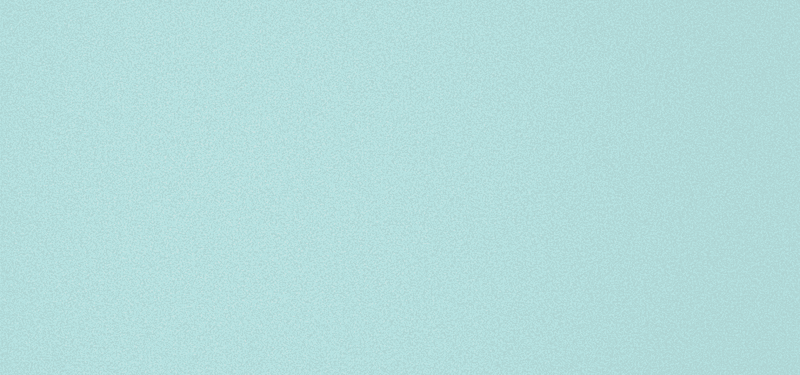
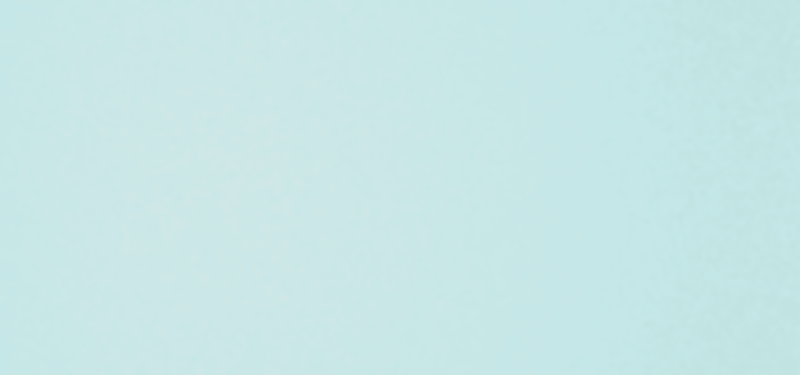
refactor(index): update style following the UWP guidelines

Changed region(s): [[0.0, 0.0, 0.625, 1.0], [0.5625, 0.9973, 0.5938, 1.0]]

diff --git a/_includes/header.html b/_includes/header.html
@@ -35,9 +35,11 @@
                         <li class="dropdown">
                             <a href="#" class="dropdown-toggle" data-toggle="dropdown" role="button" aria-expanded="false">Development<i class="glyph glyph-chevron-down-2"></i></a>
                             <ul class="dropdown-menu" id="dropdown-menu2" role="menu">
+                                <div class="acrylic2"></div>
                                 <li><a href="{{ 'development/devdocs/' | absolute_url }}">Code documentation</a></li>
                                 <li><a href="{{ 'build/tests/coverage/' | absolute_url }}">Code coverage</a></li>
                                 <li><a href="{{ '/development/specifications' | absolute_url }}">M2M Specifications</a></li>
+
                             </ul>
                         </li>
 
@@ -72,7 +74,8 @@
 <!-- Modal -->
 <div class="modal fade" id="myModal" tabindex="-1" role="dialog" aria-labelledby="myModalTitle" aria-hidden="true">
     <div class="modal-dialog" role="document">
-        <div class="modal-content">
+        <div class="modal-content" id="modal-content">
+            <div class="acrylic"></div>
             <div class="modal-header">
                 <button type="button" class="close" data-dismiss="modal" aria-label="Close">
                 <span aria-hidden="true">&times;</span>
@@ -88,6 +91,7 @@
                     Close
                 </button>
             </div>
+
         </div>
     </div>
 </div>

diff --git a/_sass/_index.scss b/_sass/_index.scss
@@ -4,17 +4,66 @@
 
 #dropdown-menu2 {
 
-  background-image: url("/glpi-plugin/images/Acrylic1b(80).png");
-  background-repeat: repeat;
   background-color: transparent;
+  overflow: hidden;
 
 }
 
-.modal-content {
+#modal-content {
 
-  background-image: url("/glpi-plugin/images/Acrylic2(40).png");
-  background-repeat: repeat;
   background-color: transparent;
+  overflow: hidden;
+
+}
+
+/*RECREATES THE ACRYLIC MATERIAL FROM THE FLUENT DESIGN*/
+.acrylic{
+
+  background-image: url("/glpi-plugin/images/Acrylic2(60).png");
+  background-repeat: repeat;
+
+  position: absolute;
+  width: 100%;
+  height: 100%;
+  padding: 20px;
+
+  top: 0px;
+  right: 0px;
+  left: 0px;
+
+  z-index: -1;
+  background-size: cover;
+  -webkit-filter: blur(20px);
+  -o-filter: blur(20px);
+  filter: blur(20px);
+  transform: scale(1.1);
+
+
+
+}
+
+.acrylic2{
+
+  background-image: url("/glpi-plugin/images/Acrylic1b(80).png");
+  background-repeat: repeat;
+
+  position: absolute;
+  width: 100%;
+  height: 100%;
+  padding: 20px;
+
+  top: 0px;
+  right: 0px;
+  left: 0px;
+
+  z-index: -1;
+  background-size: cover;
+  -webkit-filter: blur(20px);
+  -o-filter: blur(20px);
+  filter: blur(20px);
+  transform: scale(1.1);
+
+
 
 }
 
